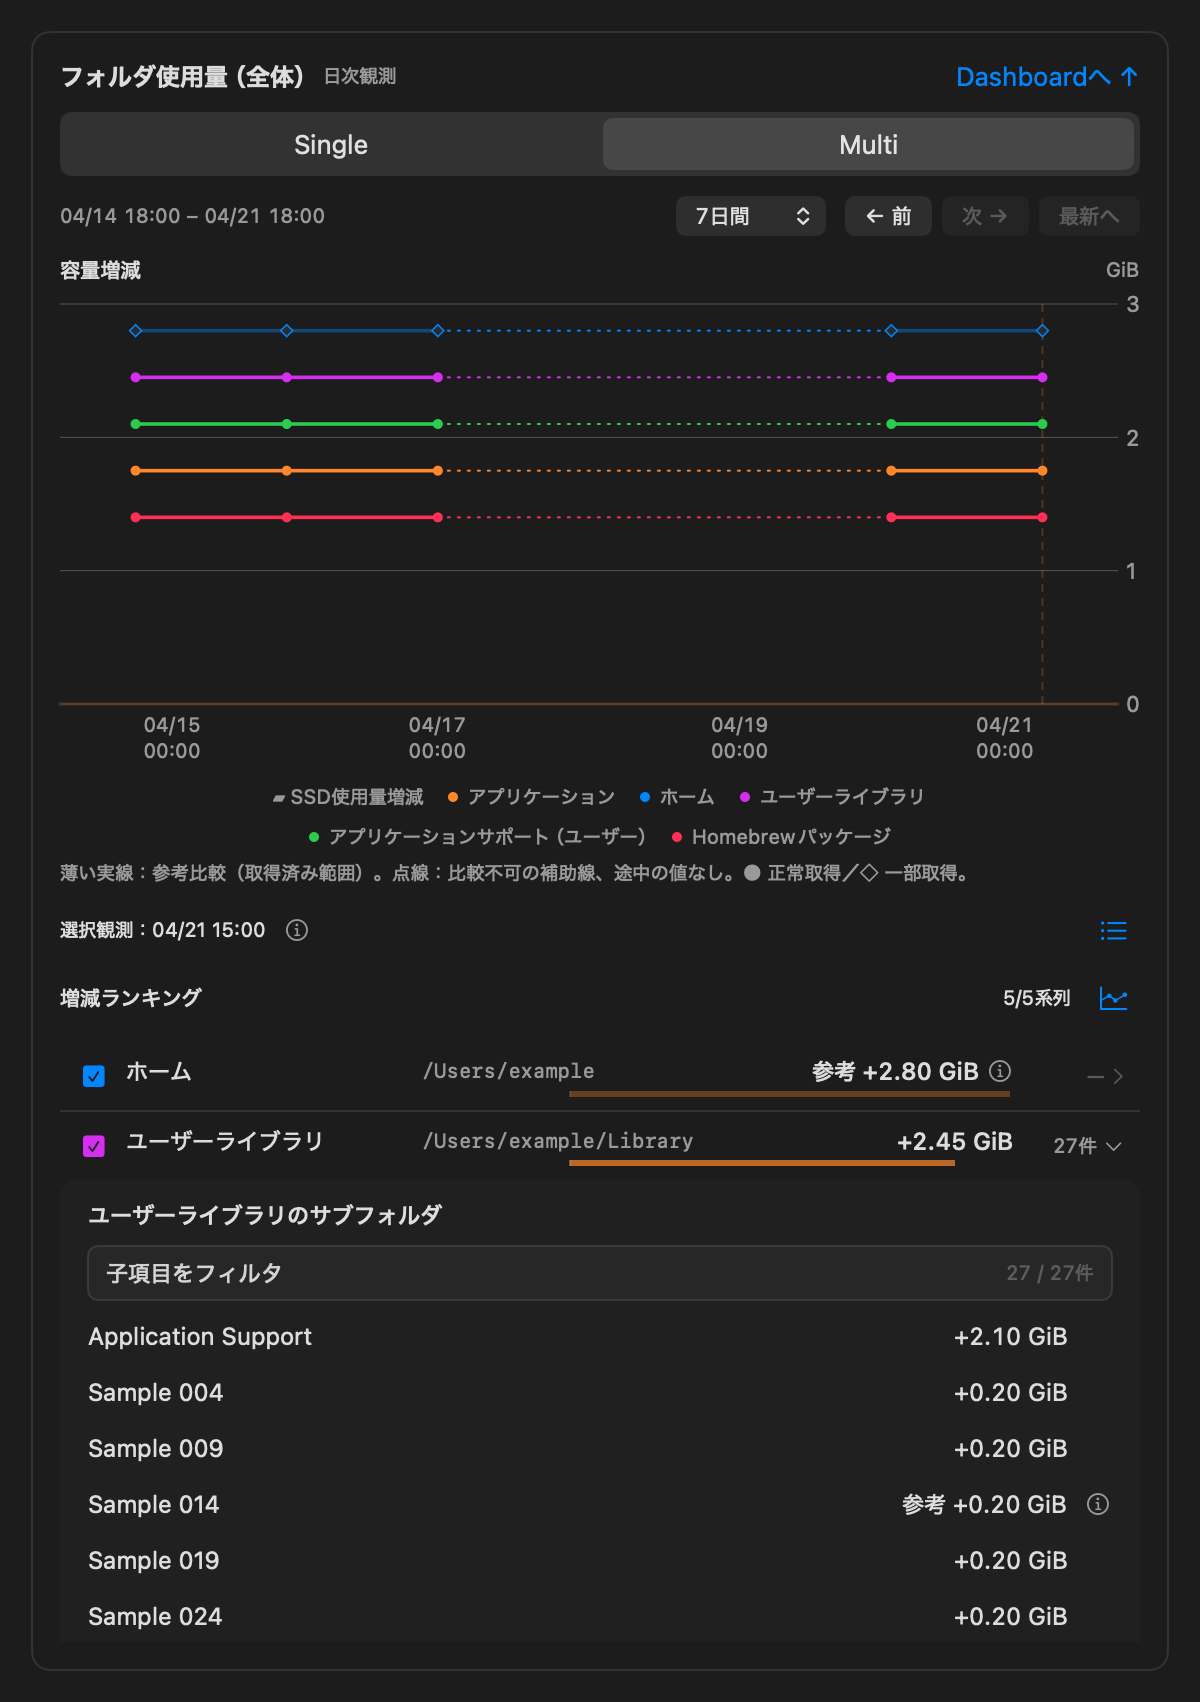
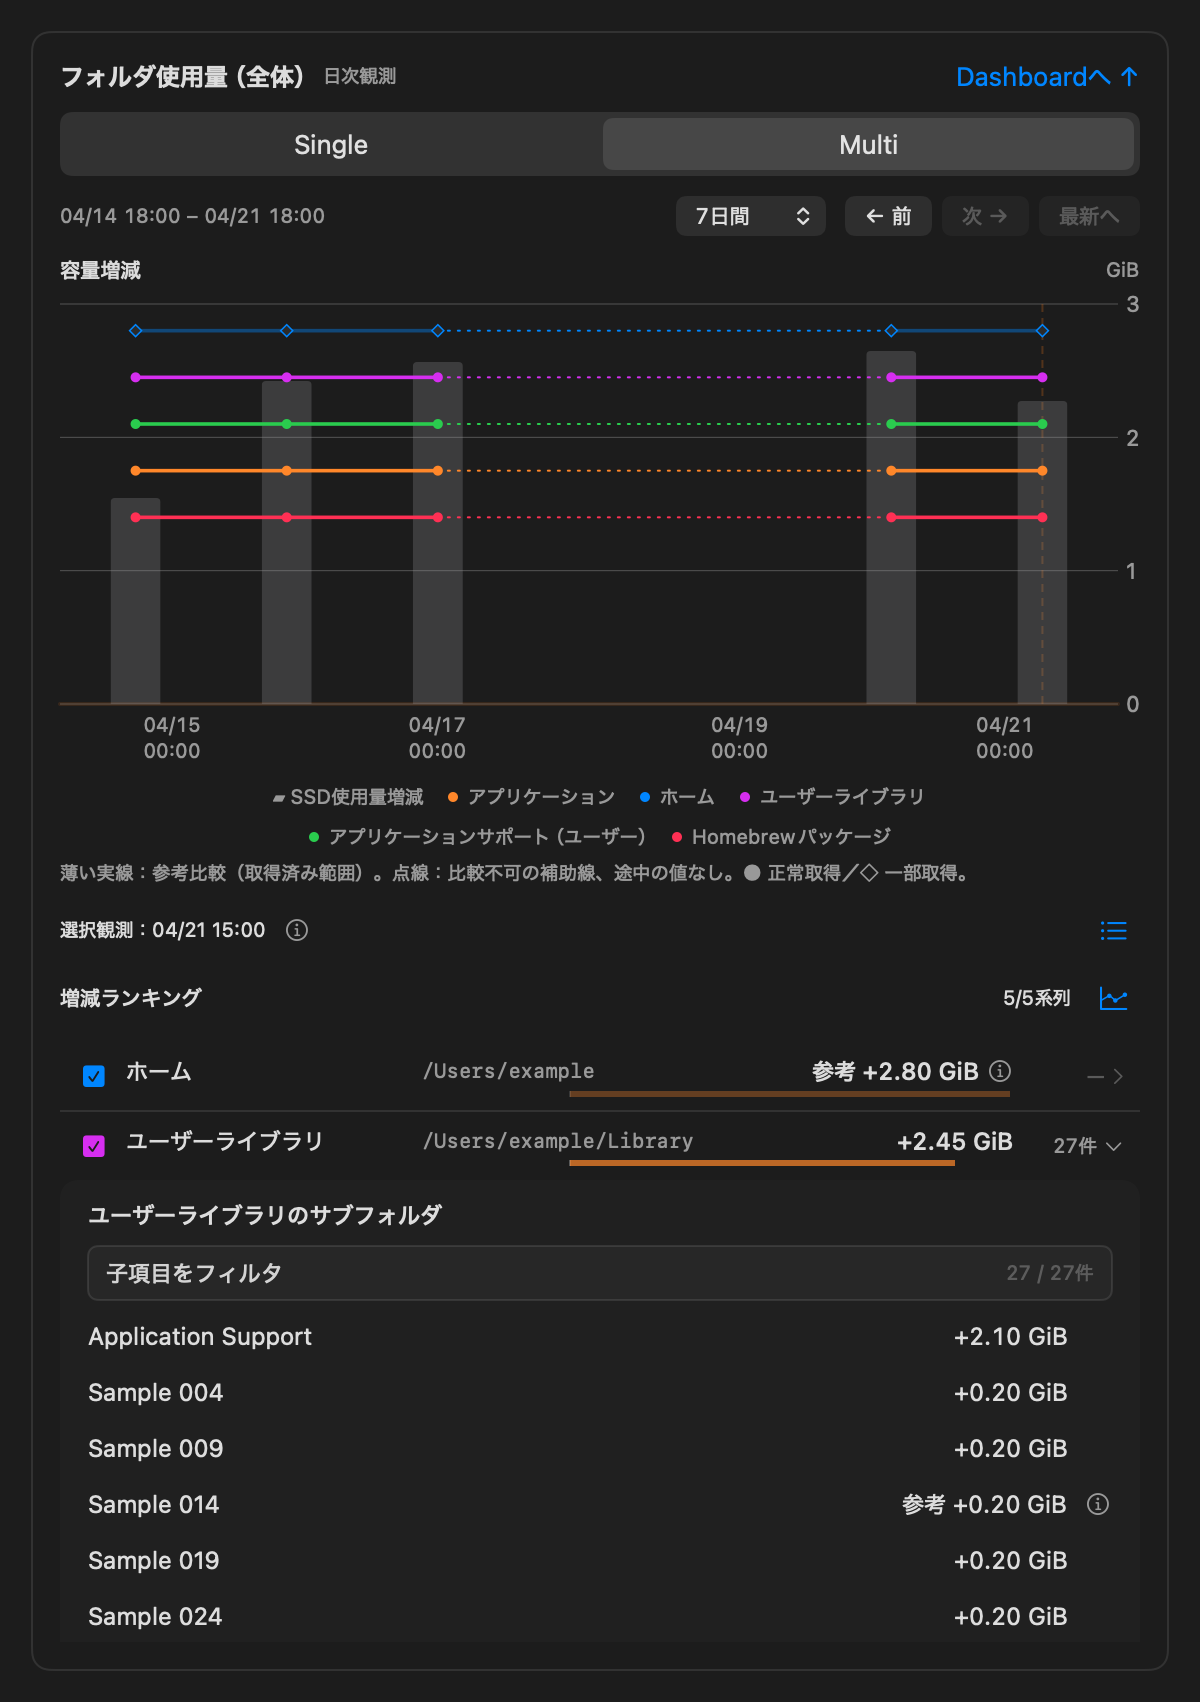
fix(viewer): keep SSD delta bars visible on time axes

diff --git a/viewer/Tests/StorageExplorerFixture.swift b/viewer/Tests/StorageExplorerFixture.swift
@@ -67,7 +67,7 @@ enum StorageExplorerFixture {
                              hourComparison: StorageMath.comparison(latest: latest, hours: 1, samples: samples),
                              predecessor: samples.last { $0.time < now.addingTimeInterval(-86400) },
                              storage: StorageSnapshot.make(targets: targets, scans: scans, l1: anchors, now: now, window: windows[.l2] ?? StorageWindow(days: 7)),
-                             storageL3: StorageSnapshot.make(targets: l3Targets, scans: hourly, l1: anchors, now: now, layer: .l3, window: windows[.l3] ?? StorageWindow(days: 3)),
+                             storageL3: StorageSnapshot.make(targets: l3Targets, scans: hourly, l1: hourly.map { L1Sample(time: $0.time, freeBytes: free($0.time)) }, now: now, layer: .l3, window: windows[.l3] ?? StorageWindow(days: 3)),
                              storageWindows: [.l2: windows[.l2] ?? StorageWindow(days: 7), .l3: windows[.l3] ?? StorageWindow(days: 3)])
     }
 }

diff --git a/viewer/App/ViewerDetail.swift b/viewer/App/ViewerDetail.swift
@@ -309,7 +309,8 @@ struct StorageExplorerSection: View {
             if state.mode == .multi {
                 ForEach(data.days) { day in
                     if let value = day.usageGiB {
-                        BarMark(x: .value("日時", day.date), y: .value("SSD使用量増減", value), width: .ratio(0.5))
+                        BarMark(x: .value("日時", day.date), y: .value("SSD使用量増減", value),
+                                width: .fixed(max(1, min(25, 300 / Double(max(1, data.days.count))))))
                             .foregroundStyle(.gray.opacity(0.28))
                     }
                 }
